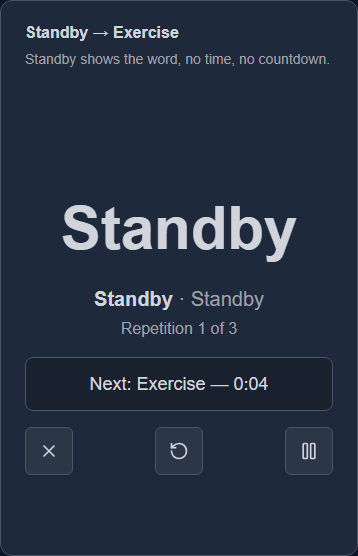
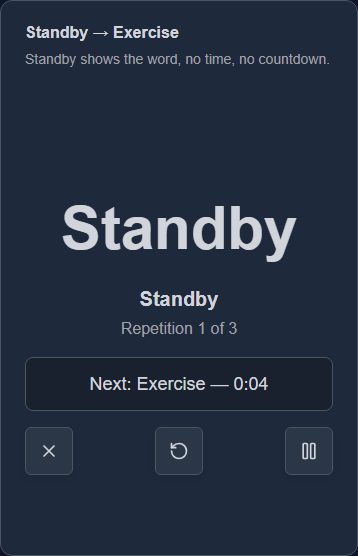
fix(view-three-phase-sections): address impl-review F1, F3, F6
- F1: Standby current heading has no time suffix (current.time: string | null)
- F3: sync plan.md (m:ss deviation from PRD recorded, prd.md untouched)
- F6: drop redundant cn()
- record decisions in impl-review.md, update handoff, refresh standby screenshots

Changed region(s): [[0.2458, 0.5198, 0.7374, 0.5504]]

diff --git a/src/lib/drill-phase-sections.test.ts b/src/lib/drill-phase-sections.test.ts
@@ -78,7 +78,7 @@ void test("sections for every current → next pair", () => {
     });
     assert.deepEqual(buildPhaseSections({ ...base, phase: { kind: "standby", repetition: 2 }, remainingSeconds: null, next: exercise }, 3), {
         main: { kind: "standby" },
-        current: { name: "Standby", time: "Standby", detail: "Repetition 2 of 3" },
+        current: { name: "Standby", time: null, detail: "Repetition 2 of 3" },
         next: { kind: "phase", name: "Exercise", time: "1:30" },
     });
     assert.deepEqual(buildPhaseSections({ ...base, phase: { kind: "rest", durationSeconds: 2, repetition: 3 }, next: null }, 3)?.next, { kind: "end" });
@@ -191,8 +191,8 @@ void test("Standby shows no time and display keys cannot carry the wait", () => 
     const sections = buildPhaseSections(display, 3);
     assert.ok(sections);
     assert.deepEqual(sections.main, { kind: "standby" });
-    assert.equal(sections.current.time, "Standby");
-    assert.ok(!MSS.test(`${sections.main.kind} ${sections.current.name} ${sections.current.time}`));
+    assert.equal(sections.current.time, null);
+    assert.ok(!MSS.test(`${sections.main.kind} ${sections.current.name}`));
     const nextStandby = buildPhaseSections(initialDrillDisplay(config({ randomStartEnabled: true })), 3);
     assert.deepEqual(nextStandby?.next, { kind: "phase", name: "Standby", time: null });
 });

diff --git a/src/components/timer/PhaseSections.tsx b/src/components/timer/PhaseSections.tsx
@@ -1,4 +1,3 @@
-import { cn } from "@/lib/utils";
 import { nextPhaseText, type PhaseSections as PhaseSectionsModel } from "@/lib/drill-phase-sections";
 
 interface PhaseSectionsProps {
@@ -22,11 +21,11 @@ export default function PhaseSections({ sections, initializing }: PhaseSectionsP
             <div className="space-y-1">
                 <h2 className="text-foreground text-xl font-semibold">
                     {current.name}
-                    <span className="text-muted-foreground font-normal tabular-nums"> · {current.time}</span>
+                    {current.time ? <span className="text-muted-foreground font-normal tabular-nums"> · {current.time}</span> : null}
                 </h2>
                 <p className="text-muted-foreground text-base">{current.detail}</p>
             </div>
-            <div role="group" aria-label="Next phase" className={cn("bg-muted border-border rounded-lg border px-4 py-3")}>
+            <div role="group" aria-label="Next phase" className="bg-muted border-border rounded-lg border px-4 py-3">
                 <p className="text-foreground text-lg font-medium tabular-nums">{nextPhaseText(next)}</p>
             </div>
         </div>

diff --git a/src/lib/drill-phase-sections.ts b/src/lib/drill-phase-sections.ts
@@ -6,8 +6,8 @@ export type MainSection = { kind: "time"; text: string } | { kind: "standby" };
 
 export interface CurrentSection {
     name: string;
-    /** Fixed full configured time; the word "Standby" replaces it for Standby. */
-    time: string;
+    /** Fixed full configured time; null for Standby, where the phase name already says "Standby". */
+    time: string | null;
     detail: string;
 }
 
@@ -51,7 +51,7 @@ export function buildPhaseSections(display: DrillDisplay, repetitions: number): 
         main: phase.kind === "standby" ? { kind: "standby" } : { kind: "time", text: formatPhaseTime(display.remainingSeconds ?? 0) },
         current: {
             name: phaseName(phase),
-            time: phaseTime(phase) ?? "Standby",
+            time: phaseTime(phase),
             detail: phase.kind === "preparation" ? "Preparing" : `Repetition ${phase.repetition} of ${repetitions}`,
         },
         next: next ? { kind: "phase", name: phaseName(next), time: phaseTime(next) } : { kind: "end" },

diff --git a/context/changes/view-three-phase-sections/reviews/impl-review.md b/context/changes/view-three-phase-sections/reviews/impl-review.md
@@ -1,0 +1,87 @@
+<!-- IMPL-REVIEW-REPORT -->
+# Implementation Review: View three phase sections (S-04)
+
+- **Plan**: context/changes/view-three-phase-sections/plan.md
+- **Scope**: Full plan
+- **Reviewed phases**: 1, 2, 3
+- **Date**: 2026-10-07
+- **Verdict**: NEEDS ATTENTION (po poprawkach: F1, F3, F6 naprawione; F4, F5 zaakceptowane; F2 czeka na człowieka)
+- **Findings**: 0 critical, 2 warnings, 4 observations
+
+## Verdicts
+
+| Dimension | Verdict |
+|-----------|---------|
+| Plan Adherence | WARNING |
+| Scope Discipline | PASS |
+| Safety & Quality | PASS |
+| Architecture | PASS |
+| Pattern Consistency | PASS |
+| Success Criteria | WARNING |
+
+Gates uruchomione przy przeglądzie: `npm test` 100/100, `npm run lint` 0 błędów, `npx astro check` 0 błędów. Sprawdzono też: pliki zmienione względem planu (8 plików src, wszystkie z planu), brak zmian poza zakresem, `next` liczone w jednym helperze `nextAfter` dla obu gałęzi `display`, `resumeTarget` zerowany po ukończeniu przygotowania (`drill-run.ts:126`), `next` po pauzie/wznowieniu zgodne z `tick()` (`:125`) i `rebuild()` (`:284`). Brak wycieku losowego Standby: `DrillPhase` dla standby ma tylko `repetition`, a widok i model nie dotykają `Segment`/`sampledWait`. Testy różnicowe (1 s vs 5 s) i test zestawu kluczy `display` pokrywają ten przypadek.
+
+## Findings
+
+### F1 — Redundantne „Standby · Standby” w sekcji bieżącej
+
+- **Severity**: ⚠ WARNING
+- **Impact**: 🏃 LOW — quick decision; fix is obvious and narrowly scoped
+- **Dimension**: Plan Adherence
+- **Location**: src/components/timer/PhaseSections.tsx:25-28, src/lib/drill-phase-sections.ts:56
+- **Detail**: Dla Standby nagłówek sekcji bieżącej renderuje nazwę fazy „Standby” i, w miejscu czasu, słowo „Standby” (`current.time = phaseTime(phase) ?? "Standby"`). Zrzuty (`standby-exercise-*-390.png`) pokazują „Standby · Standby”, a pod spodem jeszcze „Repetition 1 of 3” i wielkie „Standby” w sekcji głównej, czyli słowo trzy razy na ekranie. FR-013 mówi „dla Standby zamiast czasu widoczny jest napis Standby”. Gdy nazwą fazy jest już samo „Standby”, wymaganie jest spełnione przez nagłówek, a wstawianie drugiego słowa tylko je powtarza. Czytnik ekranu odczyta „Standby · Standby”. Plan pierwotnie przewidywał `current.time: string | null`; zmiana na `string` z „Standby” (decyzja koordynatora) dała tę redundancję.
+- **Fix**: W sekcji bieżącej nie renderuj sufiksu czasu dla Standby: przywróć `current.time: string | null` (null dla Standby) i pokaż `Standby` + linię `Repetition X of N`.
+  - Rekomendowane sformułowanie: nagłówek **„Standby”**, linia pod spodem **„Repetition 1 of 3”**; sekcja główna zostaje z wielkim **„Standby”**; „Next: Standby” bez zmian. To zgodne z FR-005 (napis „Standby” w obszarze bieżącej fazy, bez odliczania) i FR-013 (słowo zastępuje czas, nie liczbę), bez dublowania. Nie dodawaj tekstu typu „random start”/„wait for the signal”: nie ma go w PRD, a drugi wariant „Standby — get ready” zmieniałby język fazy.
+  - Zmiany: `drill-phase-sections.ts` (`time: phaseTime(phase)`), `PhaseSections.tsx` (renderuj `· {time}` tylko gdy `time`), aktualizacja asercji w `drill-phase-sections.test.ts` i skryptu Playwright; odśwież zrzuty `standby-*`.
+- **Decision**: FIXED — `current.time: string | null` (null dla Standby); nagłówek „Standby” + „Repetition X of N” bez sufiksu czasu; main i „Next: Standby” bez zmian. Testy i zrzuty `standby-*` odświeżone (gate: 424 checks, 0 failed).
+
+### F2 — Kroki ręczne 2.3 i 3.3 nadal otwarte, a zmiana oznaczona `implementing`
+
+- **Severity**: ⚠ WARNING
+- **Impact**: 🔎 MEDIUM — real tradeoff; pause to reason through it
+- **Dimension**: Success Criteria
+- **Location**: context/changes/view-three-phase-sections/plan.md:225, :236
+- **Detail**: 2.3 (prawdziwy przebieg na `/` przy 390/1280 px, jasny/ciemny) i 3.3 (ludzki przegląd zrzutów) są `[ ]`. Zrzuty i `gate-results.json` zrobił skrypt, nie człowiek (README to ujawnia). Prawdziwy przebieg na `/` nie został wykonany nawet skryptem: fixture `/dev/timer-ui` nie dowodzi, że `DrillTimer` na `/` poprawnie przekazuje `next` po żywym wznowieniu. Obecny przegląd (ocena zrzutów) częściowo realizuje 3.3, ale potwierdzenie należy do człowieka (zgodnie z `lessons.md` oznacz po potwierdzeniu).
+- **Fix**: Wykonać 2.3 ręcznie (plan Manual Testing Steps 1-4) i oznaczyć 2.3/3.3 po potwierdzeniu; dopiero potem PR.
+- **Decision**: DEFERRED-TO-HUMAN — kroki 2.3 i 3.3 zostają otwarte; opisane w handoff.md i w opisie PR.
+
+### F3 — Plan i PRD nieaktualne względem zaimplementowanych decyzji
+
+- **Severity**: 💡 OBSERVATION
+- **Impact**: 🏃 LOW — quick decision; fix is obvious and narrowly scoped
+- **Dimension**: Plan Adherence
+- **Location**: plan.md:75, context/foundation/prd.md:67
+- **Detail**: Plan nadal opisuje `current.time: string | null`, a kod ma `string` (zmieni się z F1). PRD US-02 pisze „Next: Rest — 2 s”, a UI pokazuje „Next: Rest — 0:02”; odchylenie jest zapisane w planie jako zatwierdzone, ale PRD nie ma adnotacji.
+- **Fix**: Po F1 zsynchronizować plan (typ `current.time`) i dodać krótką adnotację o formacie `m:ss` przy US-02/FR-013.
+- **Decision**: FIXED — plan.md zsynchronizowany (brak sufiksu czasu dla Standby; jawne odstępstwo `m:ss` od „2 s” z PRD). `prd.md` celowo nie edytowany.
+
+### F4 — Przygotowanie po wznowieniu nie mówi, które to powtórzenie
+
+- **Severity**: 💡 OBSERVATION
+- **Impact**: 🔎 MEDIUM — real tradeoff; pause to reason through it
+- **Dimension**: Plan Adherence
+- **Location**: src/lib/drill-phase-sections.ts:57
+- **Detail**: Podczas przygotowania po wznowieniu sekcja bieżąca pokazuje „Preparing”, a następna „Next: Exercise — 0:04” bez numeru powtórzenia; „to samo powtórzenie” (FR-006) widać tylko w testach. Logika `next` jest poprawna (zweryfikowana w kodzie i testach), więc to kwestia czytelności, nie błąd. README zrzutów to przyznaje.
+- **Fix**: Opcjonalnie dodać do `detail` przy wznowieniu „Preparing · repetition 2” (wymaga wystawienia numeru z `next`, bez ruszania sampledWait). Można też świadomie pominąć jako poza zakresem S-04.
+  - Strength: użytkownik widzi, które powtórzenie się zaczyna. Tradeoff: odstępstwo od planowanego „Preparing”, dodatkowy test. Confidence: MED. Blind spot: nie sprawdzono, czy PRD tego oczekuje (FR-013 tego nie wymaga).
+- **Decision**: ACCEPTED-AS-IS — FR-013 nie wymaga numeru powtórzenia w przygotowaniu po wznowieniu, a logika `next` jest pokryta testami; dodanie go byłoby odstępstwem od planu poza zakresem S-04.
+
+### F5 — Brak komunikatu dla czytników ekranu o zmianie fazy / następnej fazie
+
+- **Severity**: 💡 OBSERVATION
+- **Impact**: 🔎 MEDIUM — real tradeoff; pause to reason through it
+- **Dimension**: Safety & Quality
+- **Location**: src/components/timer/PhaseSections.tsx:30
+- **Detail**: Grupa „Next phase” ma etykietę, ale brak live region; zmiana nazwy fazy (`h2`) nie jest ogłaszana (stan sprzed zmiany też tego nie miał, więc nie regres). `role="timer"` ma domyślnie `aria-live="off"`. Kontrasty wynikają z tokenów motywu (zrzuty czytelne w jasnym i ciemnym).
+- **Fix**: Opcjonalnie wspólny `role="status"` z tekstem „<Phase>. Next: …” aktualizowany tylko przy zmianie fazy; można odłożyć do S-05/ścieżki dostępności.
+- **Decision**: ACCEPTED-AS-IS — live region ogłaszający co sekundę odliczanie (lub zmiany fazy razem z odliczaniem) byłby uciążliwy dla użytkownika czytnika ekranu; stan sprzed zmiany też go nie miał, więc nie regres. Dostępność do ewentualnego osobnego kroku.
+
+### F6 — Zbędne `cn()` z jednym statycznym łańcuchem
+
+- **Severity**: 💡 OBSERVATION
+- **Impact**: 🏃 LOW — quick decision; fix is obvious and narrowly scoped
+- **Dimension**: Pattern Consistency
+- **Location**: src/components/timer/PhaseSections.tsx:30
+- **Detail**: `cn("bg-muted border-border rounded-lg border px-4 py-3")` nie scala niczego; import `cn` jest zbędny.
+- **Fix**: Zamienić na zwykły `className="..."` i usunąć import.
+- **Decision**: FIXED — usunięto zbędne `cn()` i import.

diff --git a/context/changes/view-three-phase-sections/plan.md b/context/changes/view-three-phase-sections/plan.md
@@ -16,10 +16,10 @@ S-04 (US-02, FR-005, FR-013). During a drill the user sees three stacked section
 ## Desired End State
 
 - Phone (390 px) and desktop (1280 px) show, top to bottom: main section, current-phase section, next-phase section, then the unchanged control bar and status line.
-- Main: remaining time `m:ss` (or "Standby" without countdown), clearly the largest type. Current: phase name + fixed full time (never counts down; for Standby the time slot shows the word "Standby") + "Repetition X of N" / "Preparing". Next: "Next: <Name> — <m:ss>", "Next: Standby" (no time), or "Next: Drill complete" when no phase follows.
+- Main: remaining time `m:ss` (or "Standby" without countdown), clearly the largest type. Current: phase name + fixed full time (never counts down; for Standby there is no time suffix, the name "Standby" is the heading and the detail line is "Repetition X of N") + "Repetition X of N" / "Preparing". Next: "Next: <Name> — <m:ss>", "Next: Standby" (no time), or "Next: Drill complete" when no phase follows.
 - Correct for: preparation 0 s (skipped), rest 0 s (skipped; last exercise → drill complete), Standby on/off, last repetition, Pause→Resume (next after the resume preparation is the resumed repetition's Standby/exercise), paused and initializing states.
 - Standby never reveals the random wait: neither `DrillDisplay`, the view model nor the DOM contains any value derived from it.
-- **Decision (explicit deviation from PRD wording)**: times are formatted `m:ss` ("Next: Rest — 0:02") for consistency with the main countdown and form fields, whereas PRD US-02 writes "2 s". Approved by the coordinator; tests use the `m:ss` format.
+- **Decision (explicit deviation from PRD wording)**: times are formatted `m:ss` ("Next: Rest — 0:02") for consistency with the main countdown and form fields, whereas PRD US-02 writes "2 s". Approved by the coordinator; tests use the `m:ss` format. `prd.md` is intentionally left unchanged; this plan is the record of the deviation (also applies to FR-013).
 - Evidence for every behavior is in repo tests (`npm test`); the `/dev/timer-ui` gate adds screenshots, not proofs.
 
 ### Key Discoveries
@@ -44,7 +44,7 @@ S-04 (US-02, FR-005, FR-013). During a drill the user sees three stacked section
 ## Critical Implementation Details
 
 - **State sequencing** — `DrillRun.display` is built in two places (paused branch and live branch, `drill-run.ts:87-103`); both must set `next` from one private helper: `phase.kind === "preparation" && this.resumeTarget ? this.resumeTarget : nextDrillPhase(configuration, phase)`. When no segment is current (`phase: null`), `next` is `null`.
-- **No leak** — `next` and the view model are built only from `DrillPhase` values; never pass `Segment`, `sampledWait` or remaining wait to the view. A test asserts the exact key set of `display` and that Standby main/current carry no number (the word "Standby" replaces the time).
+- **No leak** — `next` and the view model are built only from `DrillPhase` values; never pass `Segment`, `sampledWait` or remaining wait to the view. A test asserts the exact key set of `display` and that Standby main/current carry no number (the heading "Standby" is the only word, no time suffix).
 
 ---
 

diff --git a/context/changes/view-three-phase-sections/handoff.md b/context/changes/view-three-phase-sections/handoff.md
@@ -52,3 +52,14 @@ Pre-existing: whole preview page is 414 px wide at 390 px because of the older h
 - **3.3** review of the screenshots (hierarchy, readability, dark mode) — not done. Note "Standby · Standby" in the current heading (the coordinator decision) looks redundant; worth a look.
 - **3.4** optional real-device drill with pause/resume — not done.
 - The "resumed repetition" is not visible in the Next text; it is proven only by `npm test`.
+
+## After impl-review fixes (F1, F3, F6)
+
+- Standby: `current.time` is now `string | null` (null for Standby). Current heading is just "Standby" with "Repetition X of N" below; main and "Next: Standby" unchanged. `PhaseSections.tsx` renders ` · time` only when present, and the redundant `cn()` is gone. `plan.md` synced (no time suffix for Standby; `m:ss` deviation from PRD "2 s" recorded; `prd.md` untouched).
+- Gates re-run: `npm test` 100/100, `npm run lint`, contract rule tests 4/4, `npx astro check` 0 errors, `npm run build`; Playwright gate on `/dev/timer-ui` 424 checks, 0 failed; `standby-exercise-*` screenshots refreshed (by script, not a human).
+- F4 / F5: ACCEPTED-AS-IS (see `reviews/impl-review.md`).
+
+### Still needs a human (blocks acceptance, not the PR)
+
+- **2.3** real drill at `/` (390/1280 px, light/dark).
+- **3.3** human review of the screenshots; **3.4** optional real-device run with pause/resume.

diff --git a/context/changes/view-three-phase-sections/screenshots/README.md b/context/changes/view-three-phase-sections/screenshots/README.md
@@ -8,7 +8,7 @@ Captured on 2026-10-07 from the local Astro dev server (`/dev/timer-ui?theme=lig
 | `preparation-standby-*` | Preparation → Standby ("Next: Standby", no time) |
 | `exercise-rest-*` | Exercise → Rest |
 | `exercise-complete-*` | last Exercise, rest 0:00 → Drill complete |
-| `standby-exercise-*` | Standby main = the word, no time |
+| `standby-exercise-*` | Standby: main = the word, current heading "Standby" without time suffix |
 | `rest-exercise-*`, `rest-standby-*`, `rest-complete-*` | Rest → Exercise / Standby / Drill complete |
 | `resume-preparation-*` | resume preparation (next = resumed repetition) |
 | `paused-*` | paused, Resume control |

diff --git a/context/changes/view-three-phase-sections/change.md b/context/changes/view-three-phase-sections/change.md
@@ -1,9 +1,9 @@
 ---
 change_id: view-three-phase-sections
 title: View three phase sections
-status: implementing
+status: impl_reviewed
 created: 2026-10-06
-updated: 2026-10-06
+updated: 2026-10-07
 archived_at: null
 ---
 
